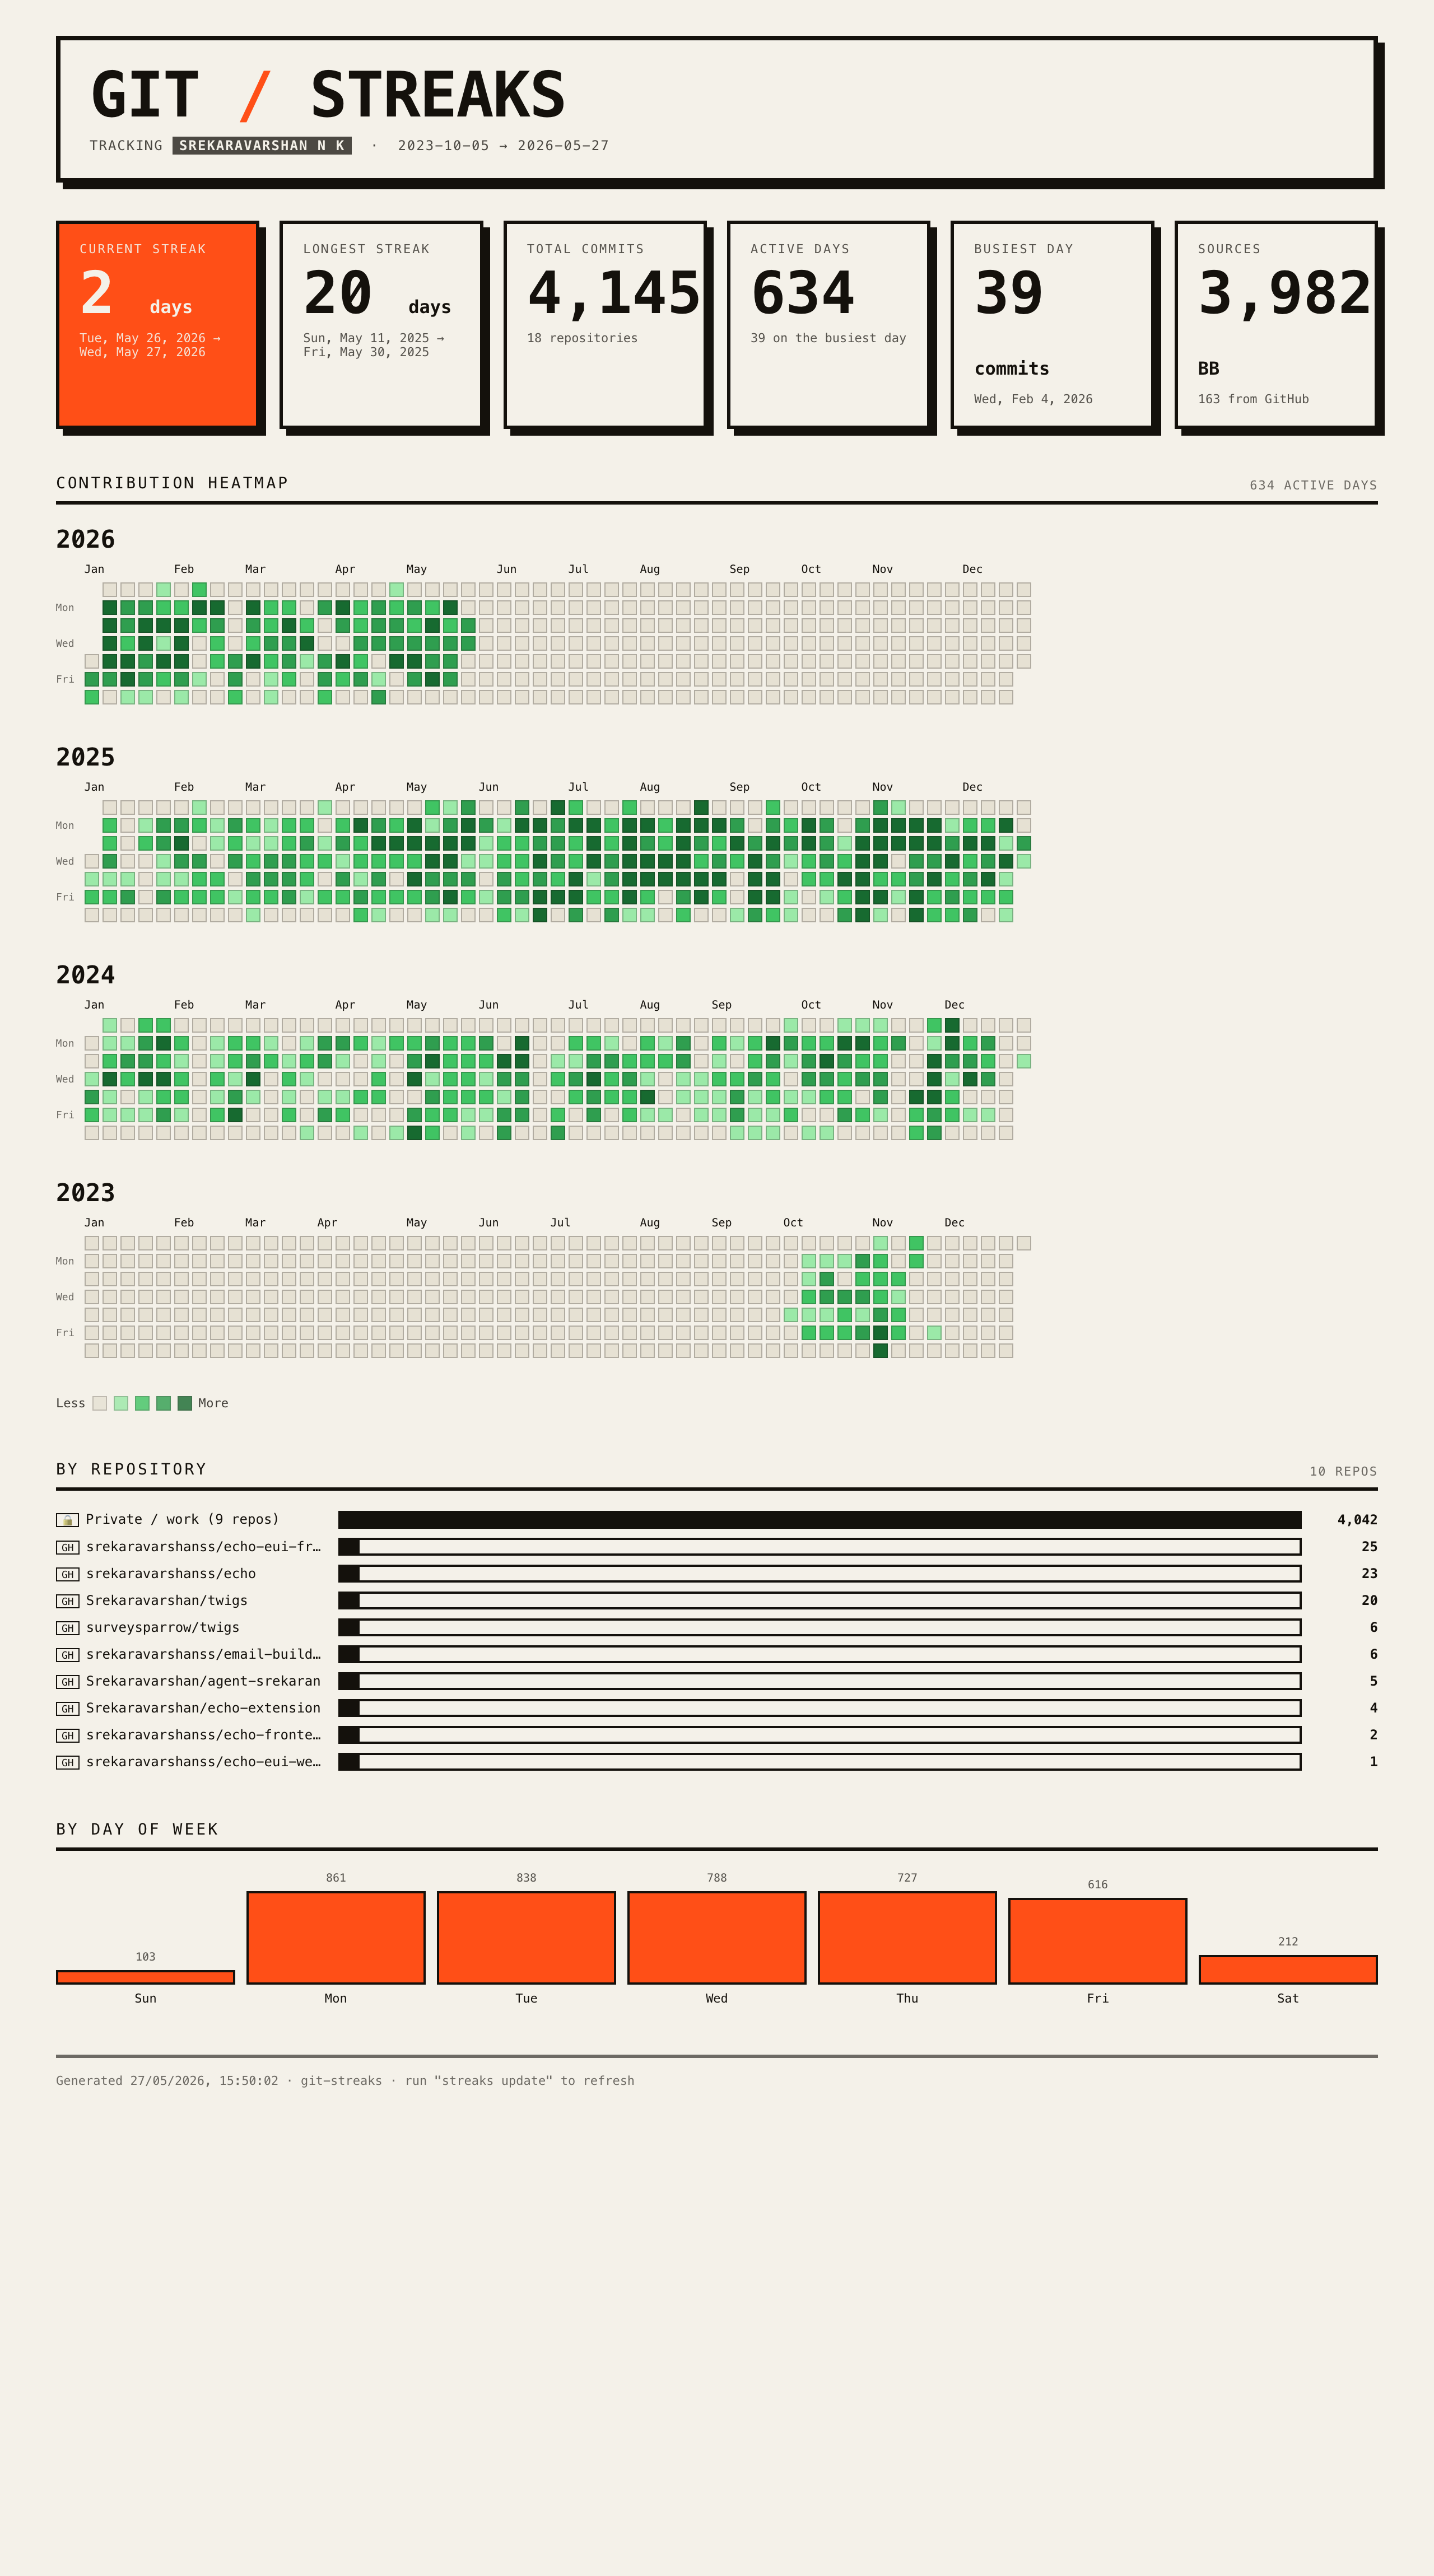
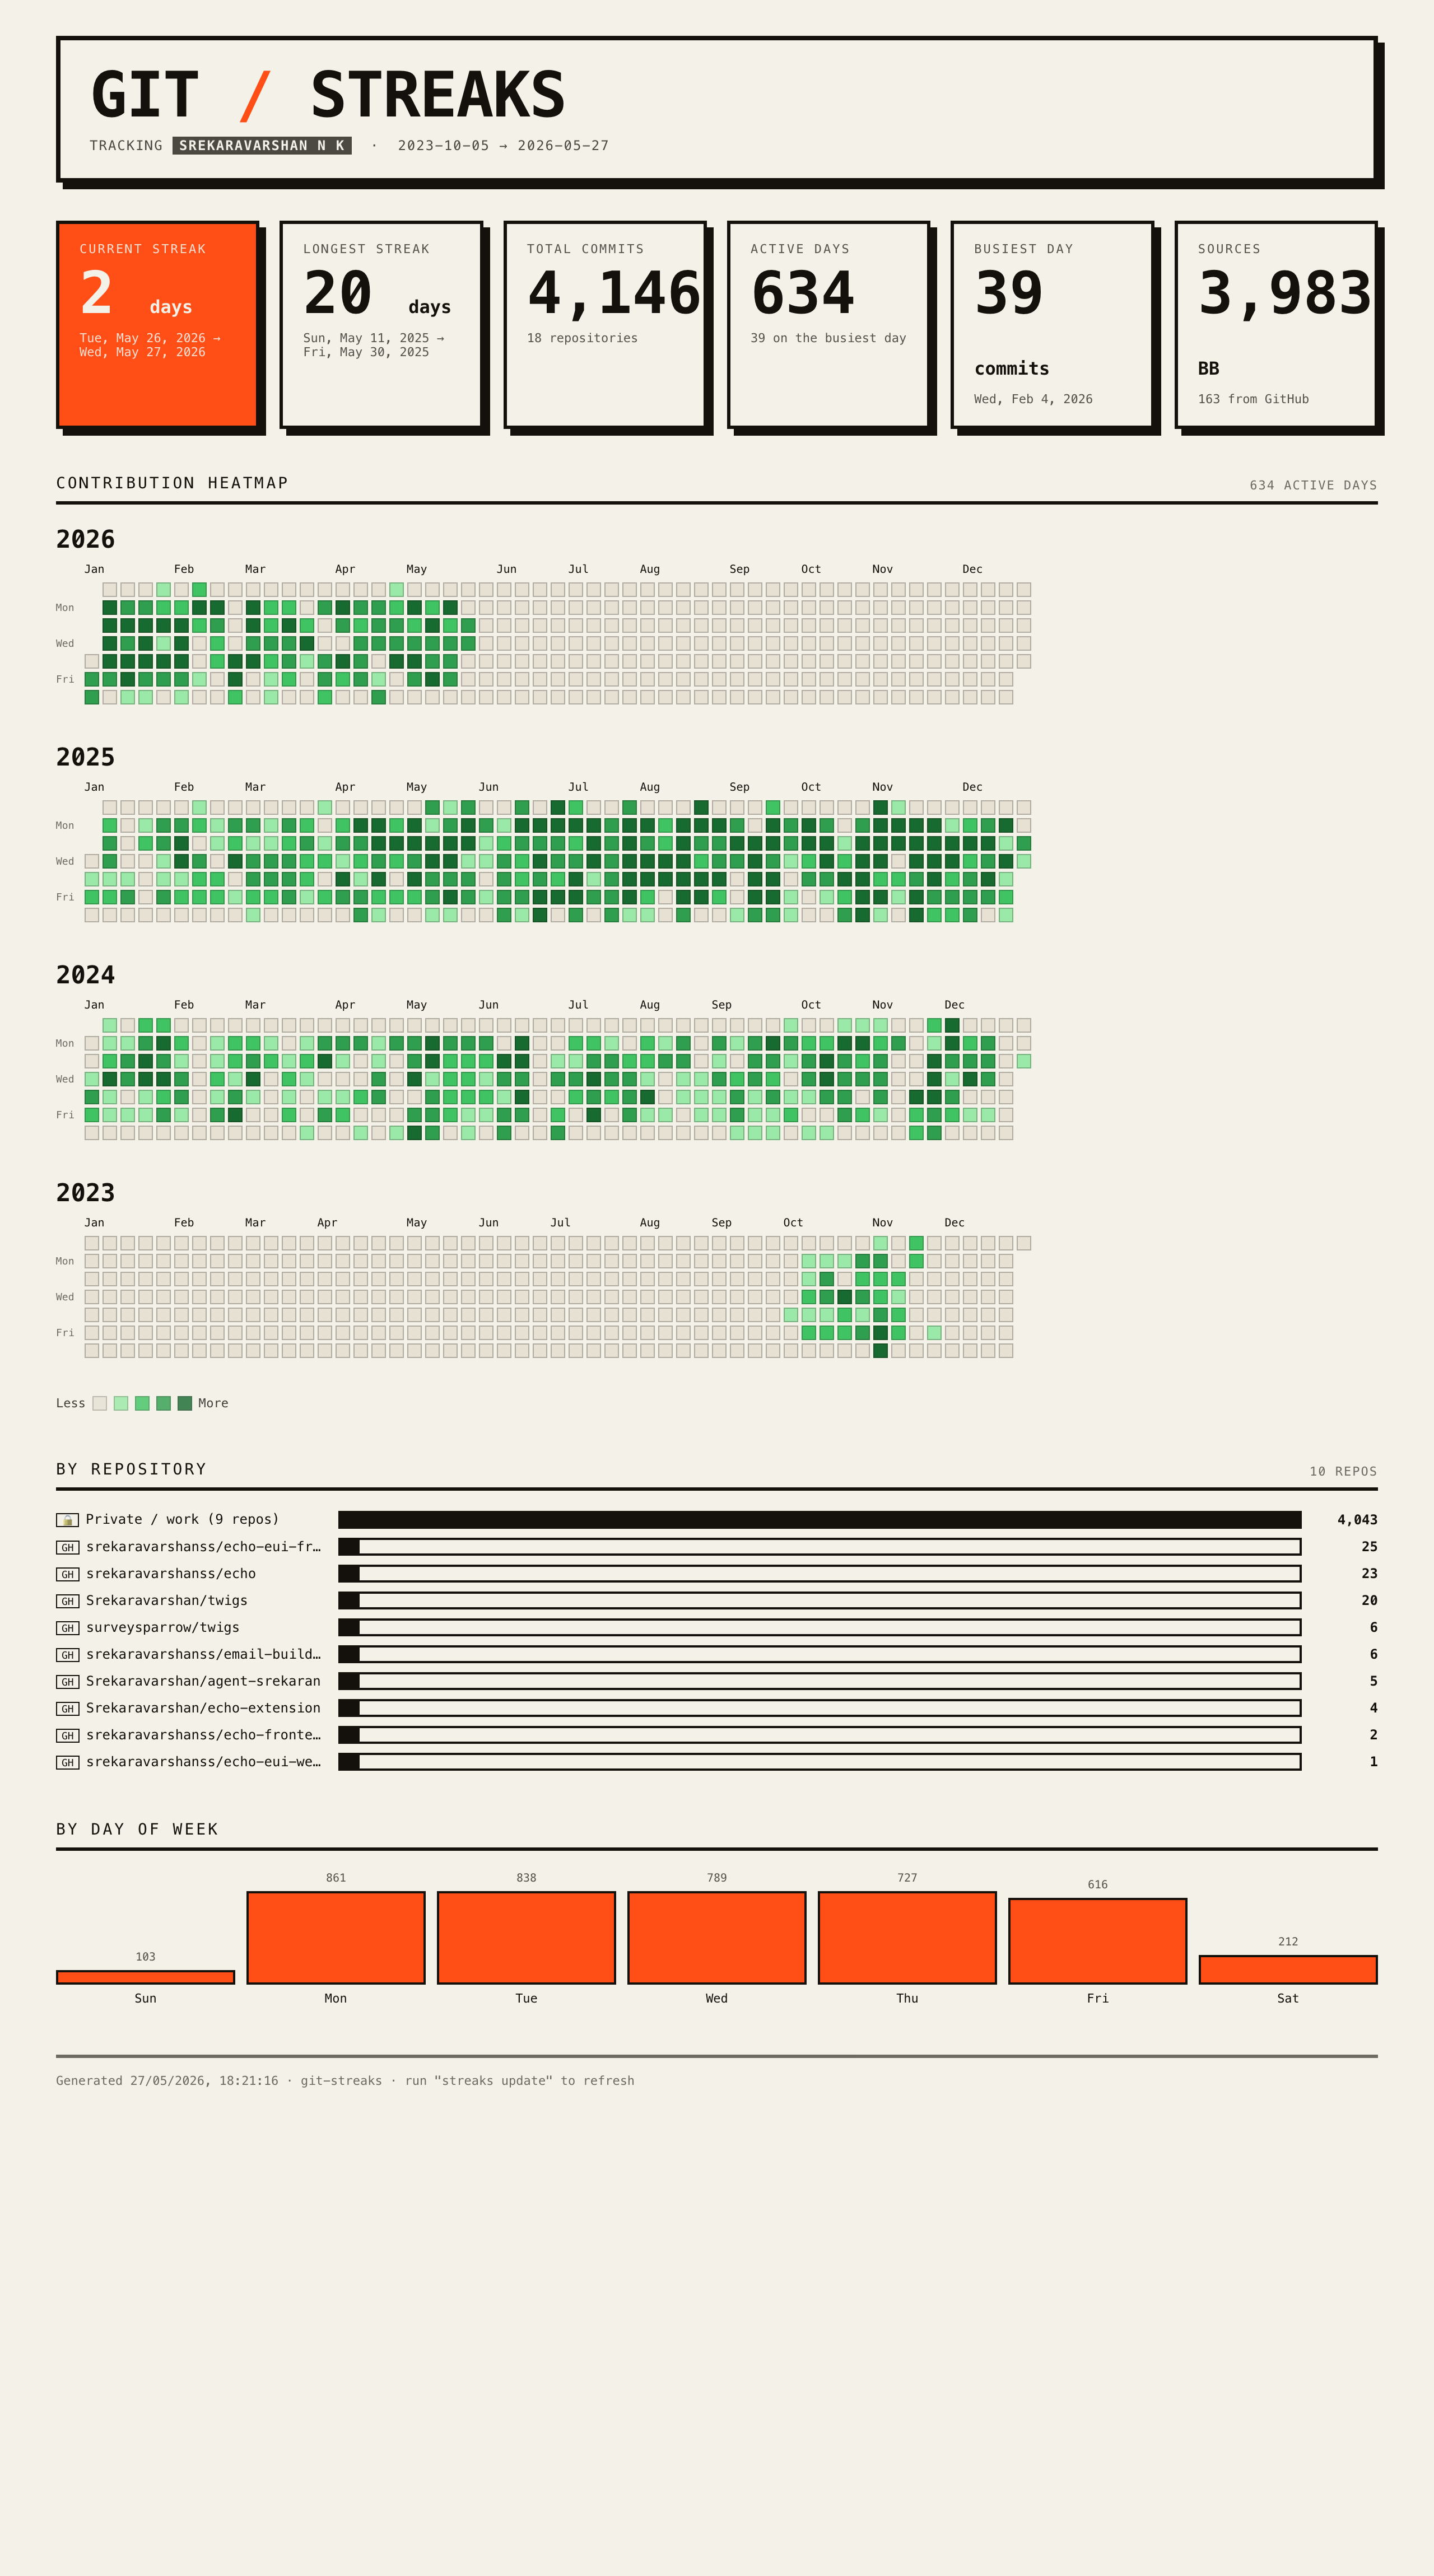
cwd-based paths + streaks init; adaptive heatmap levels; npm packaging
- Read repos.json/.env and write dist/.cache from the working dir (works via npx/global install)
- Add 'streaks init' to scaffold repos.json in the current folder
- Adaptive quantile-based intensity levels instead of fixed cutoffs
- Drop structuredClone for older-Node compatibility
- Scoped package name + publishConfig public; README install/usage + init flow

diff --git a/bin/streaks.js b/bin/streaks.js
@@ -1,6 +1,8 @@
 #!/usr/bin/env node
 import { execFile } from 'node:child_process';
-import { loadConfig, loadEnv } from '../src/config.js';
+import { copyFileSync, existsSync } from 'node:fs';
+import { join } from 'node:path';
+import { loadConfig, loadEnv, PKG_ROOT, WORK_DIR } from '../src/config.js';
 import { loadCache, saveCache, mergeCommits } from '../src/cache.js';
 import { fetchLocalGitAll } from '../src/fetchLocalGit.js';
 import { fetchBitbucketAll } from '../src/fetchBitbucket.js';
@@ -12,7 +14,7 @@ import { render } from '../src/render.js';
 function parseArgs(argv) {
   const opts = { full: false, open: false, defaultOnly: false, noLocal: false, public: false, since: null, help: false };
   for (const a of argv) {
-    if (a === 'update') continue;
+    if (a === 'update' || a === 'init') continue;
     else if (a === '--full') opts.full = true;
     else if (a === '--open') opts.open = true;
     else if (a === '--default-only') opts.defaultOnly = true;
@@ -27,7 +29,9 @@ function parseArgs(argv) {
 
 const HELP = `git-streaks — GitHub-style contribution heatmap for Bitbucket + GitHub
 
-Usage: streaks update [options]
+Usage:
+  streaks init              Create a repos.json in the current folder to edit
+  streaks update [options]  Build the dashboard from your commits
 
 Options:
   --full            Ignore the cache and re-fetch all history
@@ -39,15 +43,34 @@ Options:
   --open            Open the dashboard in your browser when done
   -h, --help        Show this help
 
-Config:  repos.json   (repos + author emails + since)
-Auth:    .env         (BITBUCKET_EMAIL + BITBUCKET_API_TOKEN; GitHub via gh CLI)
-Output:  dist/index.html`;
+Files (in the current directory):
+  repos.json   repos + author emails + since   (run \`streaks init\` to scaffold)
+  .env         optional, for Bitbucket API fallback
+  dist/        generated dashboard(s)`;
 
 const log = (m) => process.stdout.write(m + '\n');
 
+/** Scaffold a repos.json in the current directory from the bundled example. */
+function runInit() {
+  const src = join(PKG_ROOT, 'repos.example.json');
+  const dest = join(WORK_DIR, 'repos.json');
+  if (existsSync(dest)) {
+    log(`repos.json already exists — not overwriting:\n  ${dest}`);
+  } else {
+    copyFileSync(src, dest);
+    log(`Created ${dest}`);
+    log(`\nNext: edit repos.json (your repos + author emails), then run:\n  streaks update --open`);
+  }
+  log(`\n(Optional) For Bitbucket API fallback, copy the example env:\n  cp "${join(PKG_ROOT, '.env.example')}" .env`);
+}
+
 async function main() {
-  const opts = parseArgs(process.argv.slice(2));
+  const argv = process.argv.slice(2);
+  const opts = parseArgs(argv);
   if (opts.help) { log(HELP); return; }
+
+  const cmd = argv.find((a) => !a.startsWith('-')) || 'update';
+  if (cmd === 'init') { runInit(); return; }
 
   loadEnv();
   const config = loadConfig();

diff --git a/src/config.js b/src/config.js
@@ -3,8 +3,14 @@ import { fileURLToPath } from 'node:url';
 import { dirname, join } from 'node:path';
 
 const __dirname = dirname(fileURLToPath(import.meta.url));
-/** Project root (one level above src/). */
-export const ROOT = join(__dirname, '..');
+/** The installed package root — bundled assets (the HTML template) live here. */
+export const PKG_ROOT = join(__dirname, '..');
+/**
+ * The directory the user runs `streaks` from. User files (repos.json, .env) are
+ * read from here, and outputs (dist/, .cache/) are written here — so the tool
+ * works the same whether run from a clone, a global install, or npx.
+ */
+export const WORK_DIR = process.cwd();
 
 /**
  * Minimal .env parser — avoids a dotenv dependency. Reads KEY=VALUE lines,
@@ -13,7 +19,7 @@ export const ROOT = join(__dirname, '..');
  * @returns {Record<string,string>} the parsed values
  */
 export function loadEnv() {
-  const path = join(ROOT, '.env');
+  const path = join(WORK_DIR, '.env');
   if (!existsSync(path)) return {};
   const out = {};
   for (const raw of readFileSync(path, 'utf8').split('\n')) {
@@ -37,8 +43,10 @@ export function loadEnv() {
  * @returns {{ authorEmails: string[], since: string|null, repos: Array<{host:string,slug:string,account?:string}> }}
  */
 export function loadConfig() {
-  const path = join(ROOT, 'repos.json');
-  if (!existsSync(path)) throw new Error(`Missing config: ${path}`);
+  const path = join(WORK_DIR, 'repos.json');
+  if (!existsSync(path)) {
+    throw new Error(`No repos.json found in ${WORK_DIR}\n  Run \`streaks init\` to create one, then edit it.`);
+  }
   const cfg = JSON.parse(readFileSync(path, 'utf8'));
 
   if (!Array.isArray(cfg.authorEmails) || cfg.authorEmails.length === 0) {

diff --git a/src/aggregate.js b/src/aggregate.js
@@ -77,6 +77,22 @@ function dayFromNum(n) {
 }
 
 /**
+ * Adaptive intensity thresholds (lower bounds for levels 1..4), from the quantiles
+ * of non-zero daily counts — so the heatmap gradient adapts to each person's volume
+ * instead of using fixed cutoffs. Strictly increasing; t1 = 1.
+ */
+function computeLevels(days) {
+  const counts = Object.values(days)
+    .filter((c) => c > 0)
+    .sort((a, b) => a - b);
+  if (counts.length === 0) return [1, 2, 3, 4];
+  const q = (p) => counts[Math.min(counts.length - 1, Math.floor(p * counts.length))];
+  const t = [1, q(0.25), q(0.5), q(0.75)];
+  for (let i = 1; i < 4; i += 1) if (t[i] <= t[i - 1]) t[i] = t[i - 1] + 1;
+  return t;
+}
+
+/**
  * Build the dashboard data model from the cached commits.
  * @param {Record<string,{repo,host,date}>} commits sha -> commit
  * @param {{authorEmails:string[]}} config
@@ -140,6 +156,7 @@ export function aggregate(commits, config) {
     byRepo: repoList,
     byHost,
     byDow,
+    levels: computeLevels(days),
   };
 }
 

diff --git a/src/cache.js b/src/cache.js
@@ -1,9 +1,12 @@
 import { readFileSync, writeFileSync, existsSync, mkdirSync } from 'node:fs';
 import { join } from 'node:path';
-import { ROOT } from './config.js';
+import { WORK_DIR } from './config.js';
 
-const CACHE_DIR = join(ROOT, '.cache');
+const CACHE_DIR = join(WORK_DIR, '.cache');
 const CACHE_FILE = join(CACHE_DIR, 'commits.json');
+
+/** A fresh empty cache (avoids structuredClone, which needs Node 17+). */
+const emptyCache = () => ({ version: 1, commits: {}, repos: {} });
 
 /**
  * The on-disk cache shape:
@@ -13,20 +16,18 @@ const CACHE_FILE = join(CACHE_DIR, 'commits.json');
  *   repos:   { [repoKey]: { cursors: { [branch]: tipSha } } }  // incremental walk markers
  * }
  */
-const EMPTY = { version: 1, commits: {}, repos: {} };
-
 /**
  * Load the cache from disk. Returns a fresh empty cache when `fresh` is true
  * (used by --full) or when no cache exists / is unreadable.
  * @param {boolean} [fresh=false]
  */
 export function loadCache(fresh = false) {
-  if (fresh || !existsSync(CACHE_FILE)) return structuredClone(EMPTY);
+  if (fresh || !existsSync(CACHE_FILE)) return emptyCache();
   try {
     const data = JSON.parse(readFileSync(CACHE_FILE, 'utf8'));
-    return { ...structuredClone(EMPTY), ...data, commits: data.commits || {}, repos: data.repos || {} };
+    return { version: 1, commits: data.commits || {}, repos: data.repos || {} };
   } catch {
-    return structuredClone(EMPTY);
+    return emptyCache();
   }
 }
 

diff --git a/templates/dashboard.html b/templates/dashboard.html
@@ -134,13 +134,15 @@ const pad = (n) => String(n).padStart(2, '0');
 const MONTHS = ['Jan','Feb','Mar','Apr','May','Jun','Jul','Aug','Sep','Oct','Nov','Dec'];
 const DOW = ['Sun','Mon','Tue','Wed','Thu','Fri','Sat'];
 
+/** Adaptive thresholds (lower bounds for levels 1..4) from aggregate; fall back to fixed. */
+const LV = (DATA.levels && DATA.levels.length === 4) ? DATA.levels : [1, 3, 6, 10];
 /** Count -> intensity level 0..4. */
 function level(c) {
-  if (!c) return 0;
-  if (c < 3) return 1;
-  if (c < 6) return 2;
-  if (c < 10) return 3;
-  return 4;
+  if (c <= 0) return 0;
+  if (c >= LV[3]) return 4;
+  if (c >= LV[2]) return 3;
+  if (c >= LV[1]) return 2;
+  return 1;
 }
 
 function prettyDate(ds) {

diff --git a/src/render.js b/src/render.js
@@ -1,9 +1,9 @@
 import { readFileSync, writeFileSync, existsSync, mkdirSync } from 'node:fs';
 import { join } from 'node:path';
-import { ROOT } from './config.js';
+import { PKG_ROOT, WORK_DIR } from './config.js';
 
-const TEMPLATE = join(ROOT, 'templates', 'dashboard.html');
-const OUT_DIR = join(ROOT, 'dist');
+const TEMPLATE = join(PKG_ROOT, 'templates', 'dashboard.html'); // bundled with the package
+const OUT_DIR = join(WORK_DIR, 'dist'); // written where the user runs the command
 
 /**
  * Inject the aggregated data into the dashboard template and write a fully

diff --git a/README.md b/README.md
@@ -12,19 +12,28 @@ totals, per-repo and per-day-of-week breakdowns.
 **Local-first:** for any repo cloned on your machine it uses `git log` — instant, complete, no
 rate limits. The host REST APIs are used only as a fallback for repos that aren't cloned locally.
 
-## Setup
+## Install
 
 Requires **Node ≥ 18**. Optional: **`gh` CLI** and/or a **Bitbucket token** — only needed for
 repos you haven't cloned locally.
 
 ```bash
-nvm use                         # uses .nvmrc (Node 20)
-cp repos.example.json repos.json
+npm i -g @srekaravarshan.dev/git-streaks    # or skip install and use npx
 ```
 
-Edit **`repos.json`** to curate which repos count, your author emails, the `since` date, and
-optionally `localRoots` (folders to scan for clones; defaults to `~/Documents`). `repos.json` is
-gitignored — your personal config never gets committed.
+## Quick start
+
+```bash
+streaks init               # writes a repos.json template into the current folder
+# edit repos.json: your repos + author emails (+ optional since, localRoots)
+streaks update --open      # build the dashboard and open it
+```
+
+Or without installing: `npx @srekaravarshan.dev/git-streaks init`, then `… update --open`.
+
+`repos.json`, the optional `.env`, and the generated `dist/` are all read/written in **the folder
+you run the command from**. Edit `repos.json` to curate which repos count, your author emails, the
+`since` date, and optionally `localRoots` (folders to scan for clones; defaults to `~/Documents`).
 
 `.env` (only for API fallback — see `.env.example` for the two valid Bitbucket token types):
 